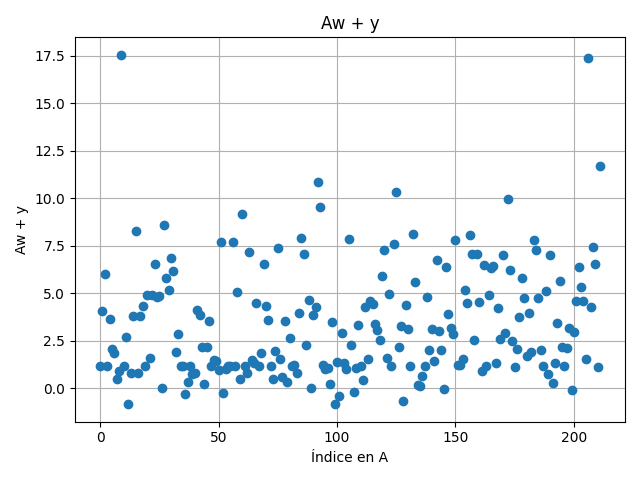
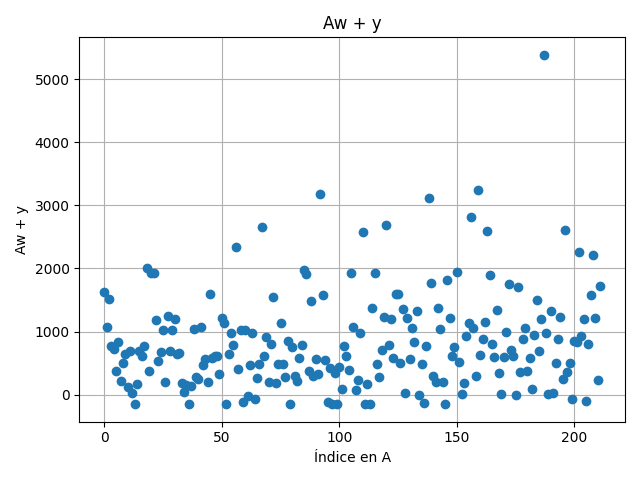
Comencé a corregir los modelados de primal y dual

diff --git a/lp_separation_simplex.py b/lp_separation_simplex.py
@@ -34,15 +34,18 @@ from ucimlrepo import fetch_ucirepo
 
 # -------------------- utilidades sencillas --------------------
 
+
 def ensure_dir(path: str) -> None:
     os.makedirs(path, exist_ok=True)
+
 
 def save_json(path: str, obj: dict) -> None:
     with open(path, "w", encoding="utf-8") as f:
         json.dump(obj, f, indent=2, ensure_ascii=False)
 
 
-# -------------------- datos --------------------
+# -------------------- Obtención de Datos --------------------
+
 
 def load_breast_cancer() -> Tuple[pd.DataFrame, pd.Series]:
     """
@@ -56,6 +59,7 @@ def load_breast_cancer() -> Tuple[pd.DataFrame, pd.Series]:
     y = data.data.targets["Diagnosis"].copy()
     return X, y
 
+
 def standardize(X: pd.DataFrame) -> pd.DataFrame:
     """
     Estandariza cada columna a media 0 y varianza 1.
@@ -64,6 +68,7 @@ def standardize(X: pd.DataFrame) -> pd.DataFrame:
     mu = X.mean(0)
     sigma = X.std(0).replace(0, 1.0)
     return (X - mu) / sigma
+
 
 def split_A_B(Xs: pd.DataFrame, y: pd.Series) -> Tuple[np.ndarray, np.ndarray]:
     """
@@ -74,39 +79,41 @@ def split_A_B(Xs: pd.DataFrame, y: pd.Series) -> Tuple[np.ndarray, np.ndarray]:
     return A, B
 
 
-# -------------------- PRIMAL (modelo del proyecto) --------------------
-# Margen normalizado (=1) y holguras:
-#   min (1/m)*1^T y + (1/p)*1^T z
-#   s.a. Aw + y >= e_A*beta + e_A
+# ------------------------- PROBLEMA PRIMAL -------------------------
+#
+#   Min (e_A/m)^T @ y + (e_B/p)^T @ z
+#   S.a. Aw + y >= e_A*beta + e_A
 #        Bw - z <= e_B*beta - e_B
-#        y >= 0, z >= 0
-# Para linprog usamos forma <=:
+#        y >= 0, z >= 0; w y alfa libres
+# Para linprog usaremos la forma canónica (max y <=):
 #   (-A)w + (e_A)beta + I*y + 0*z <= -e_A
 #   ( B)w + (-e_B)beta + 0*y + (-I)z <= -e_B
+
 
 def build_primal(A: np.ndarray, B: np.ndarray):
     m, n = A.shape
     p = B.shape[0]
 
-    A_block = np.hstack([-A, np.ones((m,1)), np.eye(m), np.zeros((m,p))])
+    A_block = np.hstack([-A, np.ones((m, 1)), np.eye(m), np.zeros((m, p))])
     bA = -np.ones(m)
 
-    B_block = np.hstack([ B, -np.ones((p,1)), np.zeros((p,m)), -np.eye(p)])
+    B_block = np.hstack([B, -np.ones((p, 1)), np.zeros((p, m)), -np.eye(p)])
     bB = -np.ones(p)
 
     A_ub = np.vstack([A_block, B_block])
     b_ub = np.concatenate([bA, bB])
 
-    # c: sólo y y z aparecen en el objetivo
+    # c: sólo y, z aparecen en el objetivo
     N = n + 1 + m + p
     c = np.zeros(N)
-    c[n+1:n+1+m] = 1.0 / m
+    c[n + 1 : n + 1 + m] = 1.0 / m
     c[-p:] = 1.0 / p
 
     # w y beta libres; y,z >= 0
-    bounds = [(None, None)] * n + [(None, None)] + [(0, None)] * m + [(0, None)] * p
+    bounds = [(-float("inf"), float("inf"))] * (n + 1) + [(0, float("inf"))] * (m + p)
     sizes = (m, n, p)
     return c, A_ub, b_ub, bounds, sizes
+
 
 def solve_primal_simplex(c, A_ub, b_ub, bounds):
     """
@@ -114,49 +121,58 @@ def solve_primal_simplex(c, A_ub, b_ub, bounds):
     Devuelve (x_opt, meta, res) donde 'meta' contiene iteraciones, cpu, etc.
     """
     t0 = time.perf_counter()
-    res = linprog(c, A_ub=A_ub, b_ub=b_ub, bounds=bounds, method="simplex")
+    res = linprog(
+        c,
+        A_ub=A_ub,
+        b_ub=b_ub,
+        bounds=bounds,
+        method="simplex",
+        options={"maxiter": 5000},
+    )
     t1 = time.perf_counter()
     meta = {
         "success": bool(res.success),
         "status": res.message,
         "obj": float(res.fun) if res.success else np.inf,
         "iters": getattr(res, "nit", None),
-        "cpu": t1 - t0
+        "cpu": t1 - t0,
     }
     return res.x, meta, res
 
 
-# -------------------- DUAL explícito (para simplex) --------------------
-# Derivado con “variable splitting” para que w y beta sean libres en el primal.
-# Variables duales: λ_A in R^m, λ_B in R^p
-#   0 ≤ λ_A ≤ 1/m,   0 ≤ λ_B ≤ 1/p
-# Máx  -1^T λ_A - 1^T λ_B    <=>  Min  1^T λ_A + 1^T λ_B  (cambiando el signo)
+# -------------------- DUAL explícito (forma) --------------------
+# Variables duales: u en R^m, q en R^p
+# Máx  (e_A)^T @ u + (e_B)^T @ q    <=>  Min  1^T λ_A + 1^T λ_B  (cambiando el signo)
 # s.a.
-#   -A^T λ_A +  B^T λ_B ≤ 0     (por w^+)
-#    A^T λ_A -  B^T λ_B ≤ 0     (por w^-)
-#    e_A^T λ_A -  e_B^T λ_B ≤ 0 (por beta^+)
-#   -e_A^T λ_A +  e_B^T λ_B ≤ 0 (por beta^-)
+#   0 ≤ u ≤ (e_A)/m,   0 ≤ q ≤ (e_B)/p
+#    -A^T λ_A +  B^T λ_B ≤ 0     (por w_+)
+#    A^T λ_A -  B^T λ_B ≤ 0     (por w_-)
+#    e_A^T λ_A -  e_B^T λ_B ≤ 0 (por beta_+)
+#   -e_A^T λ_A +  e_B^T λ_B ≤ 0 (por beta_-)
 # Nota: en óptimo, e_A^T λ_A = e_B^T λ_B.
+
 
 def build_dual(A: np.ndarray, B: np.ndarray):
     m, n = A.shape
     p = B.shape[0]
     # Restricciones (≤) sobre [λ_A; λ_B]
-    C1 = np.hstack([-A.T,  B.T])          # w^+
-    C2 = np.hstack([ A.T, -B.T])          # w^-
-    eA = np.ones((m,1)); eB = np.ones((p,1))
-    C3 = np.hstack([ eA.T, -eB.T])        # beta^+
-    C4 = np.hstack([-eA.T,  eB.T])        # beta^-
+    C1 = np.hstack([-A.T, B.T])  # w^+
+    C2 = np.hstack([A.T, -B.T])  # w^-
+    eA = np.ones((m, 1))
+    eB = np.ones((p, 1))
+    C3 = np.hstack([eA.T, -eB.T])  # beta^+
+    C4 = np.hstack([-eA.T, eB.T])  # beta^-
     A_ub = np.vstack([C1, C2, C3, C4])
-    b_ub = np.zeros(2*n + 2)
+    b_ub = np.zeros(2 * n + 2)
 
     # Objetivo de minimización (para usar linprog):
     # min 1^T λ_A + 1^T λ_B  y luego negamos para reportar la forma "max -sum λ"
     c = np.concatenate([np.ones(m), np.ones(p)])
 
     # Bounds: 0 ≤ λ_A ≤ 1/m,  0 ≤ λ_B ≤ 1/p
-    bounds = [(0, 1.0/m)] * m + [(0, 1.0/p)] * p
+    bounds = [(0, 1.0 / m)] * m + [(0, 1.0 / p)] * p
     return c, A_ub, b_ub, bounds
+
 
 def solve_dual_simplex(A: np.ndarray, B: np.ndarray):
     """
@@ -167,7 +183,14 @@ def solve_dual_simplex(A: np.ndarray, B: np.ndarray):
     """
     c, A_ub, b_ub, bounds = build_dual(A, B)
     t0 = time.perf_counter()
-    res = linprog(c, A_ub=A_ub, b_ub=b_ub, bounds=bounds, method="simplex")
+    res = linprog(
+        c,
+        A_ub=A_ub,
+        b_ub=b_ub,
+        bounds=bounds,
+        method="simplex",
+        options={"maxiter": 5000},
+    )
     t1 = time.perf_counter()
     # pasamos de "min sum λ" a "max -sum λ"
     obj_dual = float(-(res.fun)) if res.success else -np.inf
@@ -176,15 +199,21 @@ def solve_dual_simplex(A: np.ndarray, B: np.ndarray):
         "status": res.message,
         "obj_dual": obj_dual,
         "iters": getattr(res, "nit", None),
-        "cpu": t1 - t0
+        "cpu": t1 - t0,
     }
     return res.x, meta, res
 
 
 # -------------------- KKT (con lambdas del DUAL explícito) --------------------
 
-def kkt_from_primal_dual(c: np.ndarray, A_ub: np.ndarray, b_ub: np.ndarray,
-                         x_opt: np.ndarray, lam_opt: np.ndarray) -> dict:
+
+def kkt_from_primal_dual(
+    c: np.ndarray,
+    A_ub: np.ndarray,
+    b_ub: np.ndarray,
+    x_opt: np.ndarray,
+    lam_opt: np.ndarray,
+) -> dict:
     """
     KKT prácticos:
       - Factibilidad primal: A_ub x <= b_ub  (medimos min slack)
@@ -196,33 +225,40 @@ def kkt_from_primal_dual(c: np.ndarray, A_ub: np.ndarray, b_ub: np.ndarray,
     min_slack = float(slack.min())
     comp_inf = float(np.max(np.abs(lam_opt * slack)))
     station_inf = float(np.max(np.abs(c + A_ub.T @ lam_opt)))
-    return {
-        "min_slack": min_slack,
-        "comp_inf": comp_inf,
-        "station_inf": station_inf
-    }
+    return {"min_slack": min_slack, "comp_inf": comp_inf, "station_inf": station_inf}
 
 
 # -------------------- gráficas pedidas --------------------
+
 
 def plot_Aw_plus_y(A: np.ndarray, w: np.ndarray, y: np.ndarray, path_png: str) -> None:
     vals = A @ w + y
     plt.figure()
     plt.title("Aw + y")
     plt.plot(np.arange(len(vals)), vals, marker="o", linestyle="None")
-    plt.xlabel("Índice en A"); plt.ylabel("Aw + y"); plt.grid(True); plt.tight_layout()
-    plt.savefig(path_png); plt.close()
+    plt.xlabel("Índice en A")
+    plt.ylabel("Aw + y")
+    plt.grid(True)
+    plt.tight_layout()
+    plt.savefig(path_png)
+    plt.close()
+
 
 def plot_Bw_minus_z(B: np.ndarray, w: np.ndarray, z: np.ndarray, path_png: str) -> None:
     vals = B @ w - z
     plt.figure()
     plt.title("Bw - z")
     plt.plot(np.arange(len(vals)), vals, marker="o", linestyle="None")
-    plt.xlabel("Índice en B"); plt.ylabel("Bw - z"); plt.grid(True); plt.tight_layout()
-    plt.savefig(path_png); plt.close()
+    plt.xlabel("Índice en B")
+    plt.ylabel("Bw - z")
+    plt.grid(True)
+    plt.tight_layout()
+    plt.savefig(path_png)
+    plt.close()
 
 
 # -------------------- experimento principal (lo que te regresa) --------------------
+
 
 def run_simplex_experiment(outdir: str = "outputs_simplex") -> Dict[str, Any]:
     """
@@ -249,7 +285,7 @@ def run_simplex_experiment(outdir: str = "outputs_simplex") -> Dict[str, Any]:
     m, n, p = sizes
     w = x_opt[:n]
     beta = x_opt[n]
-    y_slack = x_opt[n+1:n+1+m]
+    y_slack = x_opt[n + 1 : n + 1 + m]
     z_slack = x_opt[-p:]
 
     # 3) DUAL (explícito)
@@ -259,7 +295,11 @@ def run_simplex_experiment(outdir: str = "outputs_simplex") -> Dict[str, Any]:
     kkt = kkt_from_primal_dual(c, A_ub, b_ub, x_opt, lam_opt)
 
     # 5) Brecha de dualidad
-    gap = abs(meta_p["obj"] - meta_d["obj_dual"]) if (meta_p["success"] and meta_d["success"]) else None
+    gap = (
+        abs(meta_p["obj"] - meta_d["obj_dual"])
+        if (meta_p["success"] and meta_d["success"])
+        else None
+    )
 
     # 6) Gráficas pedidas
     fig1 = os.path.join(outdir, "Aw_plus_y_simplex.png")
@@ -275,22 +315,19 @@ def run_simplex_experiment(outdir: str = "outputs_simplex") -> Dict[str, Any]:
             "status": meta_p["status"],
             "iterations": meta_p["iters"],
             "cpu_seconds": meta_p["cpu"],
-            "objective": meta_p["obj"]
+            "objective": meta_p["obj"],
         },
         "dual": {
             "success": meta_d["success"],
             "status": meta_d["status"],
             "iterations": meta_d["iters"],
             "cpu_seconds": meta_d["cpu"],
-            "objective": meta_d["obj_dual"]
+            "objective": meta_d["obj_dual"],
         },
         "duality_gap_abs": gap,
         "KKT": kkt,
-        "figures": {
-            "Aw_plus_y": fig1,
-            "Bw_minus_z": fig2
-        },
-        "sizes": {"m": int(m), "p": int(p), "n": int(n)}
+        "figures": {"Aw_plus_y": fig1, "Bw_minus_z": fig2},
+        "sizes": {"m": int(m), "p": int(p), "n": int(n)},
     }
 
     # 8) Guardar JSON
@@ -304,10 +341,16 @@ if __name__ == "__main__":
     out = run_simplex_experiment()
     # Impresión breve y clara
     print("\n=== SIMPLEX — Resumen ===")
-    print(f"PRIMAL:  iters={out['primal']['iterations']}, cpu={out['primal']['cpu_seconds']:.6f}s, obj={out['primal']['objective']:.6f}, success={out['primal']['success']}")
-    print(f"DUAL:    iters={out['dual']['iterations']}, cpu={out['dual']['cpu_seconds']:.6f}s, obj={out['dual']['objective']:.6f}, success={out['dual']['success']}")
+    print(
+        f"PRIMAL:  iters={out['primal']['iterations']}, cpu={out['primal']['cpu_seconds']:.6f}s, obj={out['primal']['objective']:.6f}, success={out['primal']['success']}"
+    )
+    print(
+        f"DUAL:    iters={out['dual']['iterations']}, cpu={out['dual']['cpu_seconds']:.6f}s, obj={out['dual']['objective']:.6f}, success={out['dual']['success']}"
+    )
     print(f"Gap |primal - dual| = {out['duality_gap_abs']}")
-    print(f"KKT: min_slack={out['KKT']['min_slack']:.3e}, ||λ∘slack||_inf={out['KKT']['comp_inf']:.3e}, ||c + A^T λ||_inf={out['KKT']['station_inf']:.3e}")
+    print(
+        f"KKT: min_slack={out['KKT']['min_slack']:.3e}, ||λ∘slack||_inf={out['KKT']['comp_inf']:.3e}, ||c + A^T λ||_inf={out['KKT']['station_inf']:.3e}"
+    )
     print("Figuras guardadas:")
     print(" -", out["figures"]["Aw_plus_y"])
     print(" -", out["figures"]["Bw_minus_z"])
